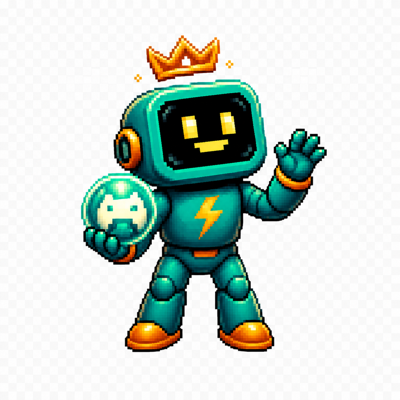
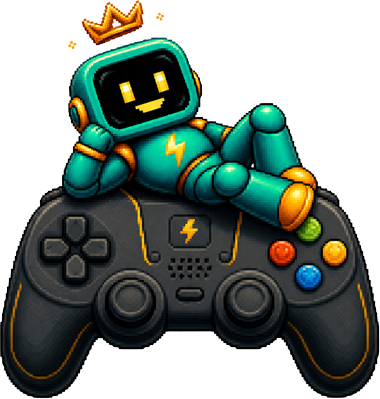
feat(landing): copy red team, transparent Pips, yellow stroke
Copy tightening from red team review:
- Hero subhead: "You need a way to decide" → "You need one good pick"
- Anti-tracker: "fuel source" metaphor → "games you already chose"
- Bottom CTA: "Today's gaming session. One solid pick." → "One pick. Get playing."
- Footer Pip: "we've got this" → "go play something"
- Remove duplicate "get playing" badge from hero

Transparent Pip sprites (pip-16 thumbs up, pip-32 lounging on controller)
replace opaque originals. mix-blend-mode: screen workaround removed.

Yellow paint stroke replaces pink behind headline to avoid pink-on-pink
clash. Opacity bumped from 0.35 to 0.60.

diff --git a/components/LandingPageV2.tsx b/components/LandingPageV2.tsx
@@ -209,20 +209,10 @@ function Hero({ onImport, onLoadSample }: { onImport: () => void; onLoadSample: 
       <div className="absolute top-0 left-0 w-[60%] h-2 sm:h-3 z-10 hidden sm:block hero-accent-bar" style={{ backgroundColor: C.pink, transformOrigin: 'top left' }} aria-hidden />
 
       {/* Paint stroke — wider, more visible */}
-      <div className="absolute top-[22%] -left-6 w-[70%] max-w-[700px] pointer-events-none opacity-35 z-0 hidden sm:block">
-        <Image src="/landing/paint-stroke-1.png" alt="" width={800} height={150} className="w-full h-auto" />
+      <div className="absolute top-[22%] -left-6 w-[70%] max-w-[700px] pointer-events-none opacity-60 z-0 hidden sm:block">
+        <Image src="/landing/stroke-yellow.png" alt="" width={800} height={150} className="w-full h-auto" />
       </div>
 
-      {/* "Stop scrolling" badge — pink paint-stroke bg with text on top */}
-      <div className="relative z-10 inline-block ml-4 sm:ml-8 mb-2 hero-badge" style={{ animation: 'heroFadeSlide 500ms cubic-bezier(0.16, 1, 0.3, 1) 100ms both' }}>
-        <div className="absolute inset-y-0 -left-3 -right-3 pointer-events-none overflow-hidden">
-          <Image src="/landing/paint-stroke-4.png" alt="" width={400} height={50} className="w-full h-full object-fill" />
-        </div>
-        <div className="absolute inset-y-0 -left-2 -right-2 pointer-events-none" style={{ backgroundColor: C.pink, opacity: 0.85, transform: 'skewX(-5deg)' }} aria-hidden />
-        <span className="relative z-10 px-4 py-2 text-xs font-bold font-[family-name:var(--font-mono)] uppercase tracking-wider block" style={{ color: C.white }}>
-          get playing.
-        </span>
-      </div>
 
       <div className="max-w-7xl mx-auto grid grid-cols-1 lg:grid-cols-2 gap-8 lg:gap-12 items-center pt-6 sm:pt-10 relative z-10">
         {/* Left: headline + copy */}
@@ -238,7 +228,7 @@ function Hero({ onImport, onLoadSample }: { onImport: () => void; onLoadSample: 
           </h1>
 
           <div className="hero-subhead" style={{ animation: 'heroFadeUp 500ms cubic-bezier(0.16, 1, 0.3, 1) 500ms both' }}>
-            <p className="text-base sm:text-lg leading-relaxed mb-2" style={{ color: C.textMuted }}>Ever feel that it&apos;s your library playing you, when it should be the other way around? You don&apos;t need more games. You need a way to decide.</p>
+            <p className="text-base sm:text-lg leading-relaxed mb-2" style={{ color: C.textMuted }}>Ever feel that it&apos;s your library playing you, when it should be the other way around? You don&apos;t need more games. You need one good pick.</p>
           </div>
 
           <div className="hero-subhead" style={{ animation: 'heroFadeUp 500ms cubic-bezier(0.16, 1, 0.3, 1) 500ms both' }}>
@@ -378,7 +368,7 @@ function AntiTracker() {
             We&apos;re not here to organize your library. We&apos;re here to get you playing.
           </p>
           <p className="text-base sm:text-lg mt-2" style={{ color: C.textMuted }}>
-            Your backlog is a fuel source, not a burden. Your current mood + how much time you have produces your best pick for today.
+            Your backlog is full of games you already chose. Your mood and your time tell us which one&apos;s right for today.
           </p>
         </Reveal>
       </div>
@@ -707,10 +697,10 @@ function BottomCTA({ onImport, onLoadSample }: { onImport: () => void; onLoadSam
         <Reveal>
           <div style={{ transform: 'rotate(-2deg)', transformOrigin: 'center' }}>
             <h2 className="font-[family-name:var(--font-condensed)] uppercase leading-[0.85] tracking-tight mb-2" style={{ fontSize: 'clamp(2.5rem, 7vw, 4.5rem)', color: C.textDark }}>
-              Today&apos;s gaming session.
+              One pick.
             </h2>
             <h2 className="font-[family-name:var(--font-condensed)] uppercase leading-[0.85] tracking-tight mb-2 relative inline-block" style={{ fontSize: 'clamp(2.5rem, 7vw, 4.5rem)', color: C.pink }}>
-              One solid pick. That&apos;s the whole thing.
+              Get playing.
               <span className="absolute -bottom-1 left-0 w-full h-2" style={{ backgroundColor: C.cyan, transform: 'skewX(-12deg)' }} aria-hidden />
             </h2>
           </div>
@@ -782,10 +772,10 @@ function Footer() {
         </div>
         <div className="mt-10 flex flex-col items-center gap-3">
           <div className="flex items-end gap-3">
-            <Image src="/landing/pip-wave.png" alt="Pip waving" width={100} height={100} className="w-20 sm:w-24 h-auto" style={{ mixBlendMode: 'screen' }} />
+            <Image src="/landing/pip-wave.png" alt="Pip waving" width={100} height={100} className="w-20 sm:w-24 h-auto"  />
             <div className="relative rounded-lg px-3 py-2 mb-2" style={{ backgroundColor: 'rgba(255,255,255,0.08)' }}>
               <div className="absolute -left-1.5 bottom-3 w-0 h-0" style={{ borderTop: '5px solid transparent', borderBottom: '5px solid transparent', borderRight: '6px solid rgba(255,255,255,0.08)' }} aria-hidden />
-              <p className="text-xs font-medium" style={{ color: 'rgba(255,255,255,0.6)' }}>we&apos;ve got this.</p>
+              <p className="text-xs font-medium" style={{ color: 'rgba(255,255,255,0.6)' }}>go play something.</p>
               <p className="text-[10px] mt-0.5" style={{ color: 'rgba(255,255,255,0.35)' }}>(and we even have a dino theme. come on.)</p>
             </div>
           </div>